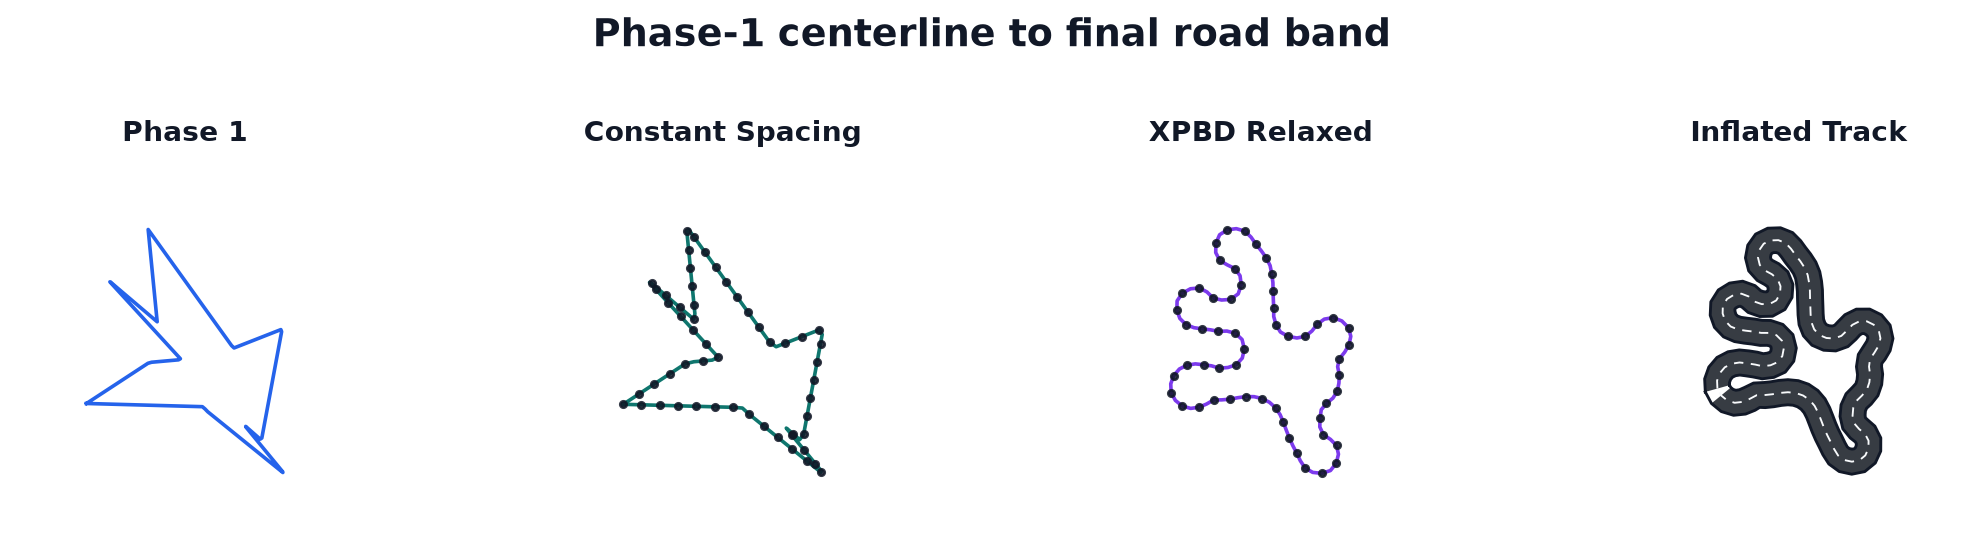
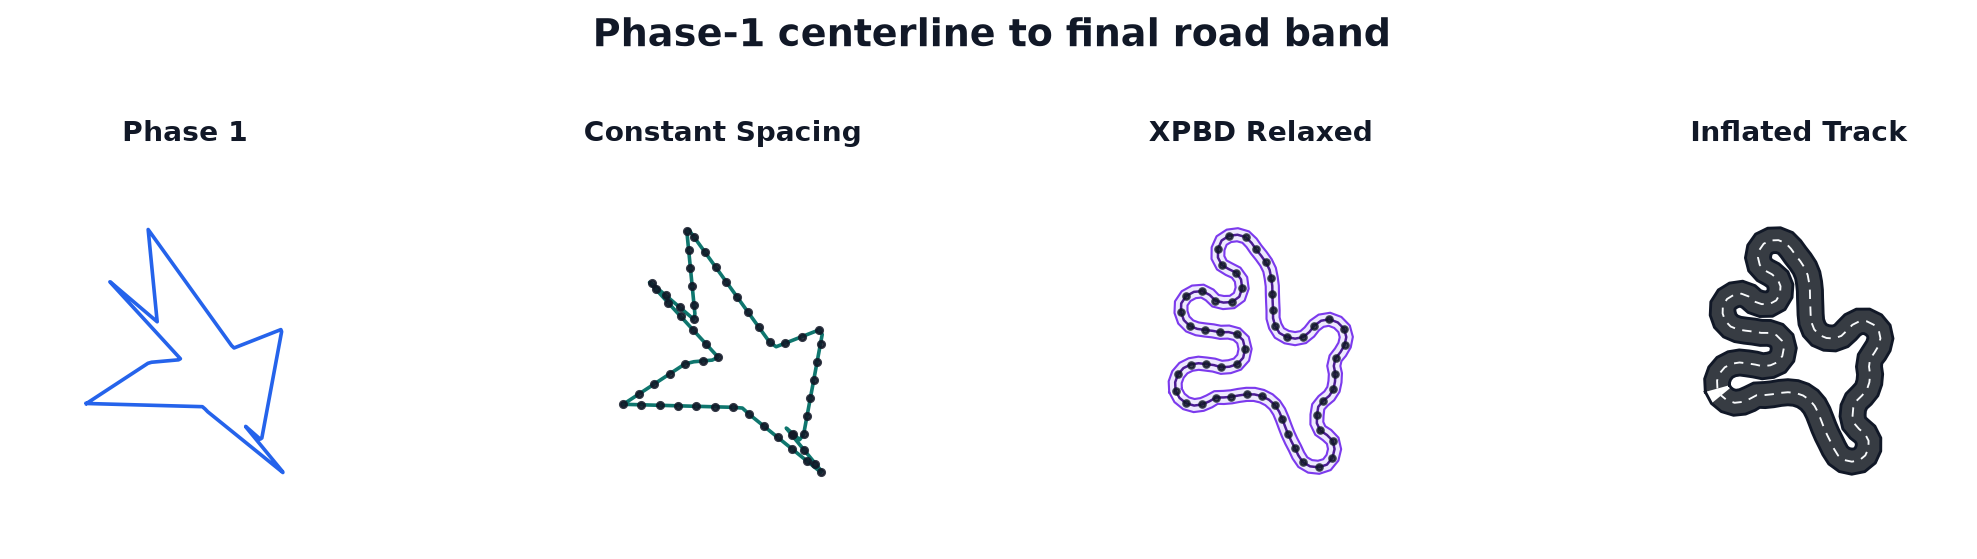
docs: polish readme pipeline visuals

Changed region(s): [[0.5862, 0.3953, 0.7097, 0.8515]]

diff --git a/viz/render_readme_assets.py b/viz/render_readme_assets.py
@@ -90,7 +90,7 @@ def _generate_pipeline_sample(name: str = "bezier", seed: int = 100):
     final_center = final_all[env_id, :count]
     outer = wp.to_torch(track.outer).cpu().numpy().reshape(batch, cfg.N_max, 2)[env_id, :count]
     inner = wp.to_torch(track.inner).cpu().numpy().reshape(batch, cfg.N_max, 2)[env_id, :count]
-    return raw, cs, relaxed, final_center, outer, inner, bool(valid_arr[env_id])
+    return raw, cs, relaxed, final_center, outer, inner, bool(valid_arr[env_id]), float(cfg.half_width)
 
 
 def _finite_rows(points: np.ndarray) -> np.ndarray:
@@ -138,6 +138,35 @@ def _draw_centerline_stage(ax, points: np.ndarray, *, color: str, title: str, do
             ax.scatter(pts[::every, 0], pts[::every, 1], s=7, color="#111827", alpha=0.85, zorder=3)
         _set_track_limits(ax, pts)
     ax.set_title(title, fontsize=11, fontweight="bold", color="#111827", pad=8)
+    _style_axis(ax)
+
+
+def _offset_polyline(points: np.ndarray, half_width: float) -> tuple[np.ndarray, np.ndarray]:
+    prev_pts = np.roll(points, 1, axis=0)
+    next_pts = np.roll(points, -1, axis=0)
+    tangent = next_pts - prev_pts
+    normal = np.column_stack([-tangent[:, 1], tangent[:, 0]])
+    length = np.linalg.norm(normal, axis=1, keepdims=True)
+    normal = np.divide(normal, length, out=np.zeros_like(normal), where=length > 1e-8)
+    return points + half_width * normal, points - half_width * normal
+
+
+def _draw_relaxed_stage(ax, points: np.ndarray, *, track_half_width: float) -> None:
+    pts = _finite_rows(points)
+    if len(pts) >= 3:
+        visual_half_width = 0.5 * track_half_width
+        outer, inner = _offset_polyline(pts, visual_half_width)
+        band = np.vstack([outer, inner[::-1]])
+        ax.fill(band[:, 0], band[:, 1], color="#ede9fe", alpha=0.92, linewidth=0, zorder=1)
+        for edge in (outer, inner):
+            closed_edge = np.vstack([edge, edge[0]])
+            ax.plot(closed_edge[:, 0], closed_edge[:, 1], color="#7c3aed", lw=0.85, zorder=2)
+        closed = np.vstack([pts, pts[0]])
+        ax.plot(closed[:, 0], closed[:, 1], color="#4c1d95", lw=1.0, zorder=3)
+        every = max(1, len(pts) // 42)
+        ax.scatter(pts[::every, 0], pts[::every, 1], s=6, color="#111827", alpha=0.78, zorder=4)
+        _set_track_limits(ax, np.vstack([outer, inner, pts]))
+    ax.set_title("XPBD Relaxed", fontsize=11, fontweight="bold", color="#111827", pad=8)
     _style_axis(ax)
 
 
@@ -204,11 +233,11 @@ def render_readme_assets(output_dir: Path = OUT_DIR) -> list[Path]:
     fig.savefig(grid_path, bbox_inches="tight", facecolor="white")
     plt.close(fig)
 
-    raw, cs, relaxed, final_center, outer, inner, valid = _generate_pipeline_sample()
+    raw, cs, relaxed, final_center, outer, inner, valid, track_half_width = _generate_pipeline_sample()
     fig, axes = plt.subplots(1, 4, figsize=(12.2, 3.0), dpi=180, facecolor="white")
     _draw_centerline_stage(axes[0], raw, color="#2563eb", title="Phase 1", dots=False)
     _draw_centerline_stage(axes[1], cs, color="#0f766e", title="Constant Spacing", dots=True)
-    _draw_centerline_stage(axes[2], relaxed, color="#7c3aed", title="XPBD Relaxed", dots=True)
+    _draw_relaxed_stage(axes[2], relaxed, track_half_width=track_half_width)
     _draw_final_stage(axes[3], final_center, outer, inner, valid=valid)
     fig.suptitle(
         "Phase-1 centerline to final road band",